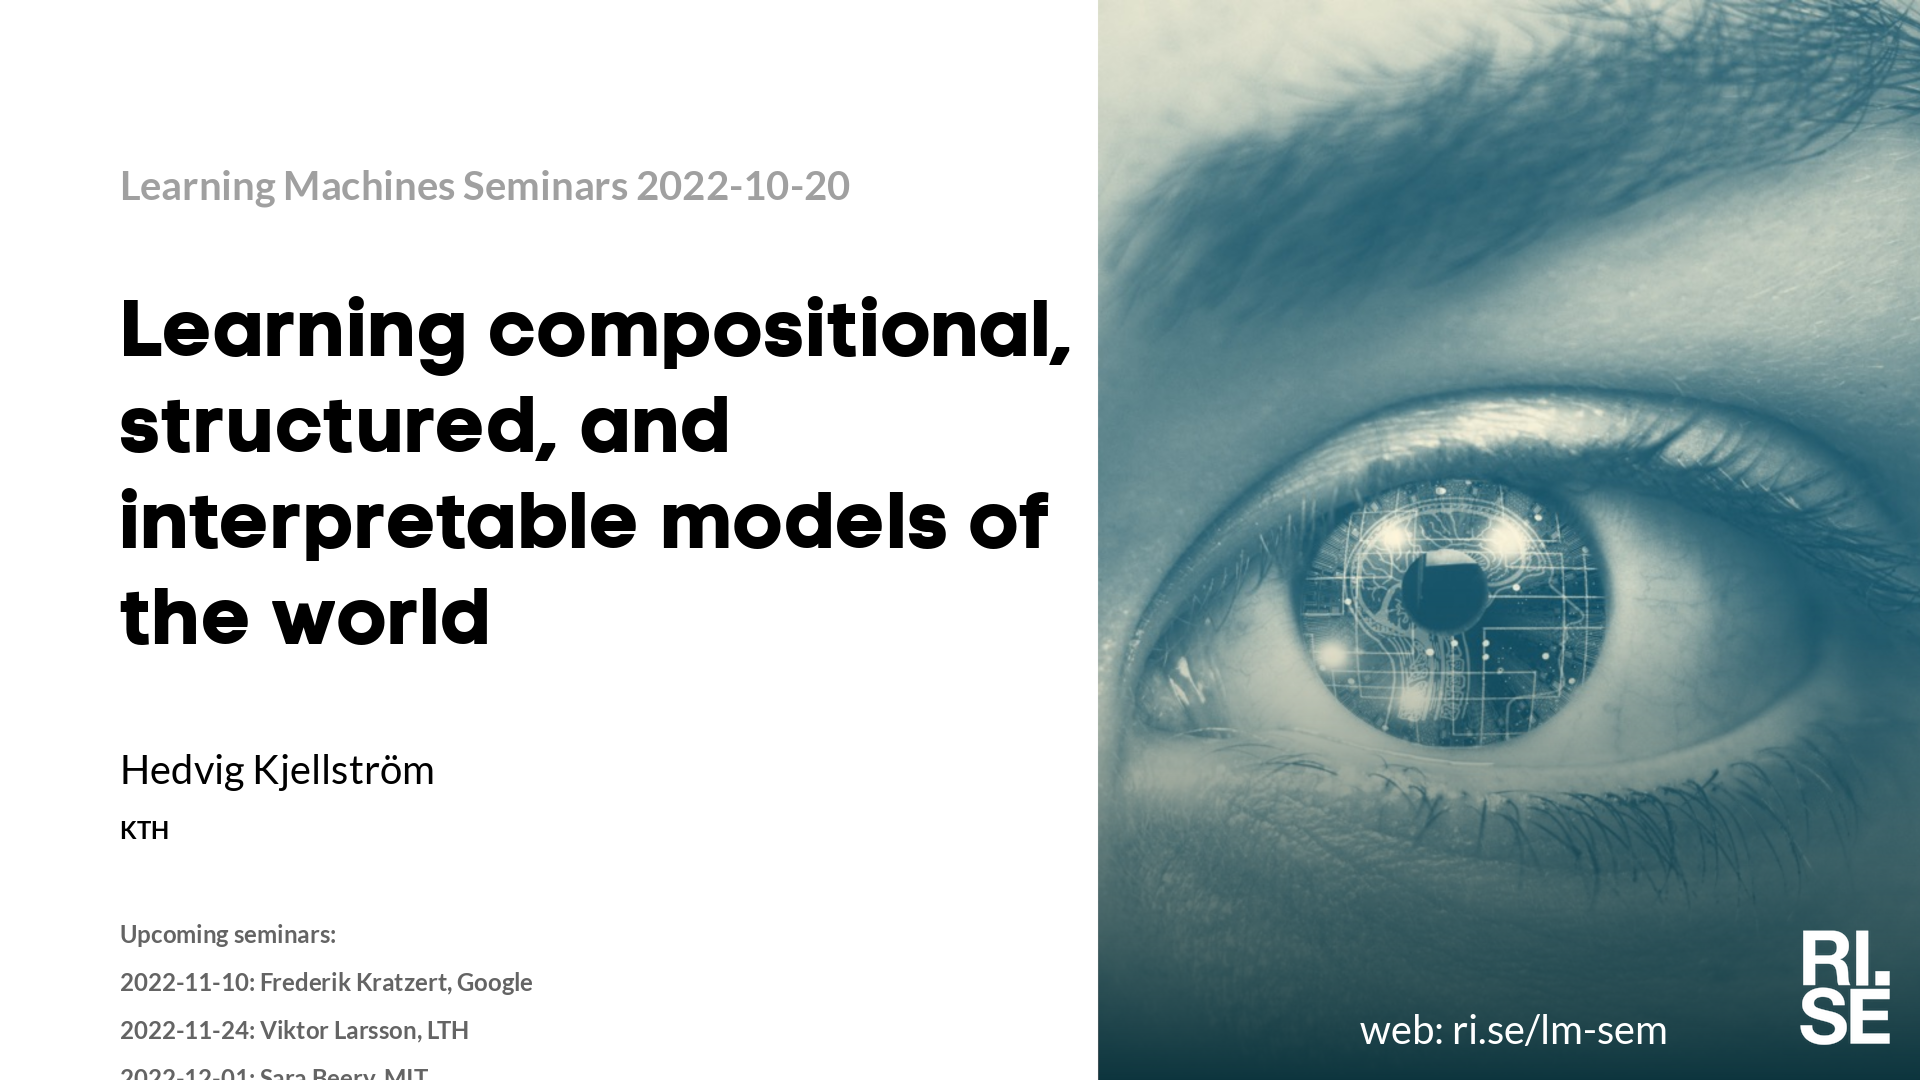
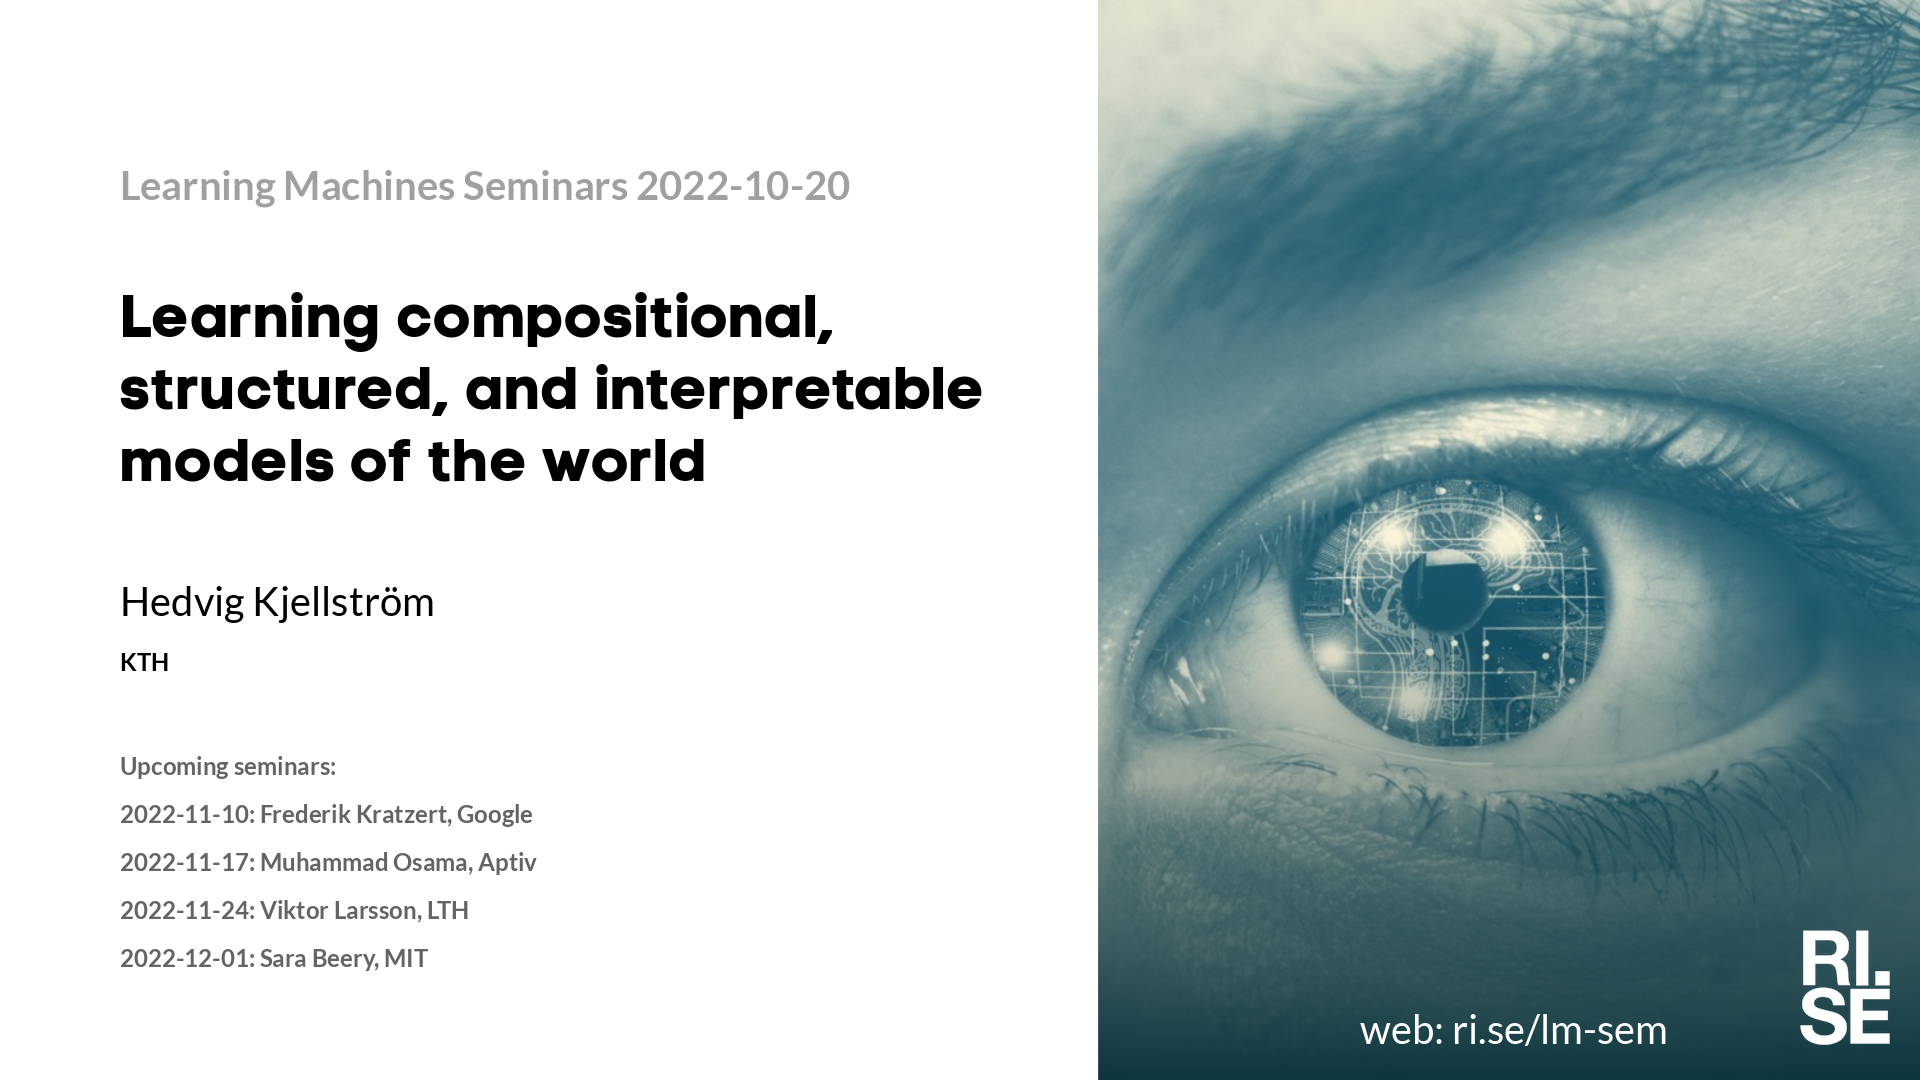
Updated plan on web site.

diff --git a/lm/2022-10-20.md b/lm/2022-10-20.md
@@ -25,9 +25,9 @@ Hedvig has received several prizes for her research, including the 2010 Koenderi
 **Upcoming seminars:**
 
 * 2022-11-10: Frederik Kratzert, Google
+* 2022-11-17: Muhammad Osama, Aptiv
 * 2022-11-24: Viktor Larsson, LTH
 * 2022-12-01: Sara Beery, MIT
-* 2022-12-08: William Lidberg, Swedish University of Agricultural Sciences
 
 More information and coming seminars: [https://ri.se/lm-sem](https://ri.se/lm-sem)
 
